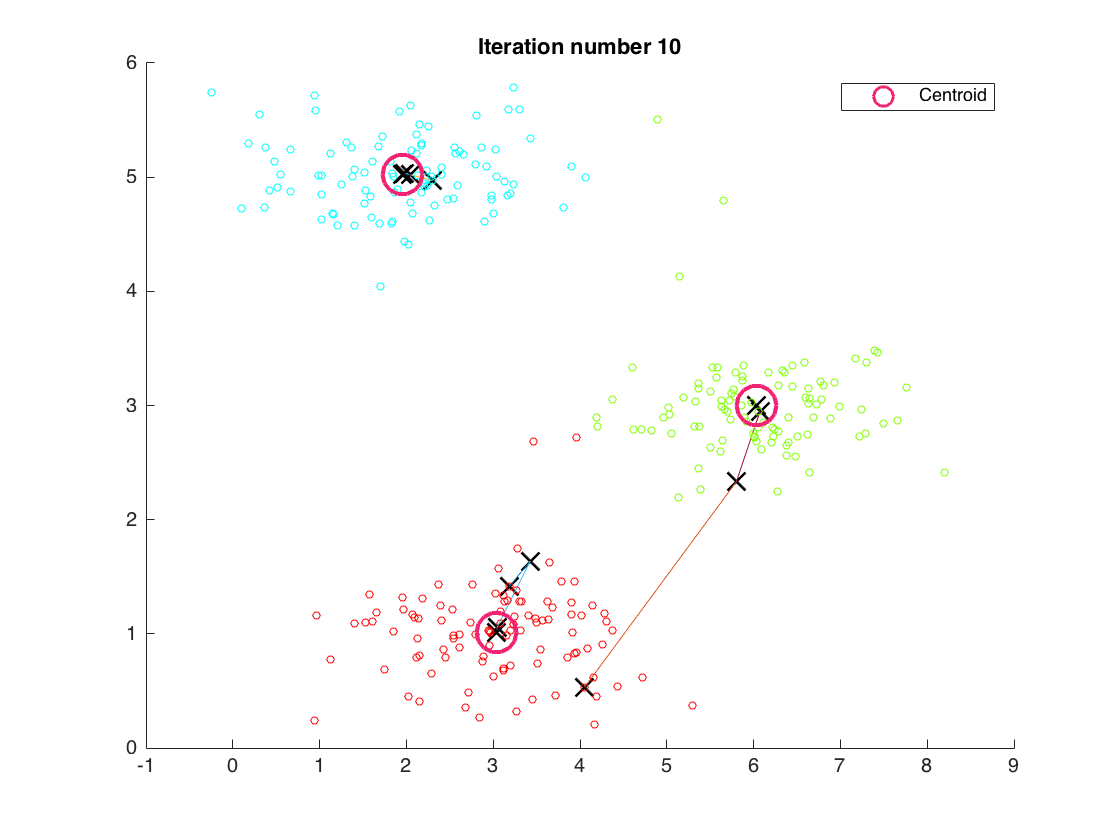
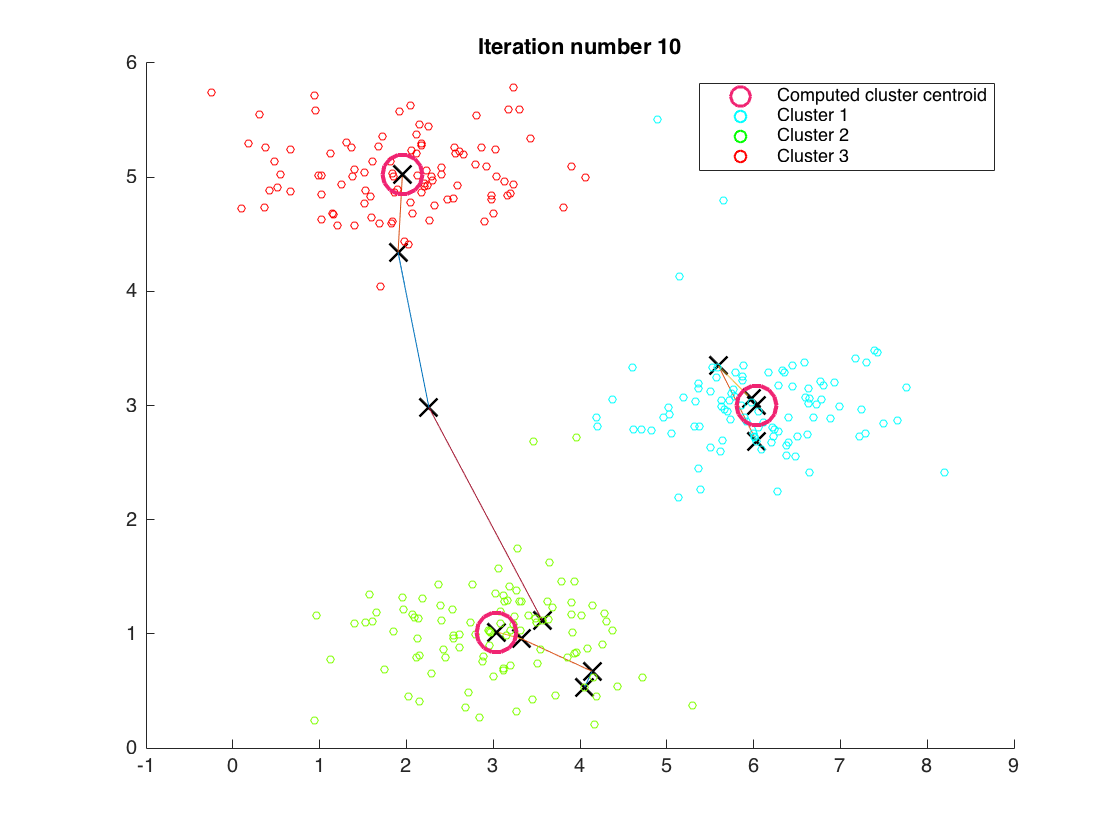
Updating legend to show cluster colours

diff --git a/K-Means Clustering/html/execute.html b/K-Means Clustering/html/execute.html
@@ -6,7 +6,7 @@
    <!--
 This HTML was auto-generated from MATLAB code.
 To make changes, update the MATLAB code and republish this document.
-      --><title>execute</title><meta name="generator" content="MATLAB 8.6"><link rel="schema.DC" href="http://purl.org/dc/elements/1.1/"><meta name="DC.date" content="2017-01-20"><meta name="DC.source" content="execute.m"><style type="text/css">
+      --><title>execute</title><meta name="generator" content="MATLAB 8.6"><link rel="schema.DC" href="http://purl.org/dc/elements/1.1/"><meta name="DC.date" content="2017-01-21"><meta name="DC.source" content="execute.m"><style type="text/css">
 html,body,div,span,applet,object,iframe,h1,h2,h3,h4,h5,h6,p,blockquote,pre,a,abbr,acronym,address,big,cite,code,del,dfn,em,font,img,ins,kbd,q,s,samp,small,strike,strong,sub,sup,tt,var,b,u,i,center,dl,dt,dd,ol,ul,li,fieldset,form,label,legend,table,caption,tbody,tfoot,thead,tr,th,td{margin:0;padding:0;border:0;outline:0;font-size:100%;vertical-align:baseline;background:transparent}body{line-height:1}ol,ul{list-style:none}blockquote,q{quotes:none}blockquote:before,blockquote:after,q:before,q:after{content:'';content:none}:focus{outine:0}ins{text-decoration:none}del{text-decoration:line-through}table{border-collapse:collapse;border-spacing:0}
 
 html { min-height:100%; margin-bottom:1px; }
@@ -248,19 +248,19 @@ num_runs = 5;
 % Run the K-Means Clustering algorithm for a number of times
 % and determine the most suitable solution
 for i = 1:num_runs
-
+    
     % Generate the centroids automatically, such as by
     % settings them to be random examples.
     initial_centroids = kMeansInitCentroids(X, K);
     % initial_centroids = [3 3; 6 2; 8 5]; % Could use a fixed starting position
     % for the centroids
-
+    
     % Run K-Means algorithm. The 'true' at the end tells our function to plot
     % the progress of K-Means
     [centroids, idx] = runkMeans(X, initial_centroids, max_iters, true);
     fprintf('\nK-Means Done.\n\n');
-
-end 
+    
+end
 
 ##### SOURCE END #####
 --></body></html>

diff --git a/K-Means Clustering/plotProgresskMeans.m b/K-Means Clustering/plotProgresskMeans.m
@@ -22,9 +22,24 @@ else
         'MarkerSize', 10, 'LineWidth', 1.5);
 end
 
-h = zeros(1, 1);
-h(1) = plot(NaN, NaN, 'Color', [0.941 0.141 0.447], 'Marker', 'o', 'LineStyle', 'none', 'MarkerSize', 10, 'LineWidth', 1.5);
-legend(h, 'Centroid');
+h = zeros(4, 1);
+h(1) = plot(NaN, NaN, 'Color', [0.941 0.141 0.447],...
+    'Marker', 'o','LineStyle', 'none',...
+    'MarkerSize', 10, 'LineWidth', 1.5);
+
+h(2) = plot(NaN, NaN, 'Color', 'c',...
+    'Marker', 'o','LineStyle', 'none',...
+    'MarkerSize', 6, 'LineWidth', 0.7);
+
+h(3) = plot(NaN, NaN, 'Color', 'g',...
+    'Marker', 'o','LineStyle', 'none',...
+    'MarkerSize', 6, 'LineWidth', 0.7);
+
+h(4) = plot(NaN, NaN, 'Color', 'r',...
+    'Marker', 'o','LineStyle', 'none',...
+    'MarkerSize', 6, 'LineWidth', 0.7);
+
+legend(h, 'Computed cluster centroid', 'Cluster 1', 'Cluster 2', 'Cluster 3');
 
 % Plot the history of the centroids with lines
 for j = 1:size(centroids,1)
